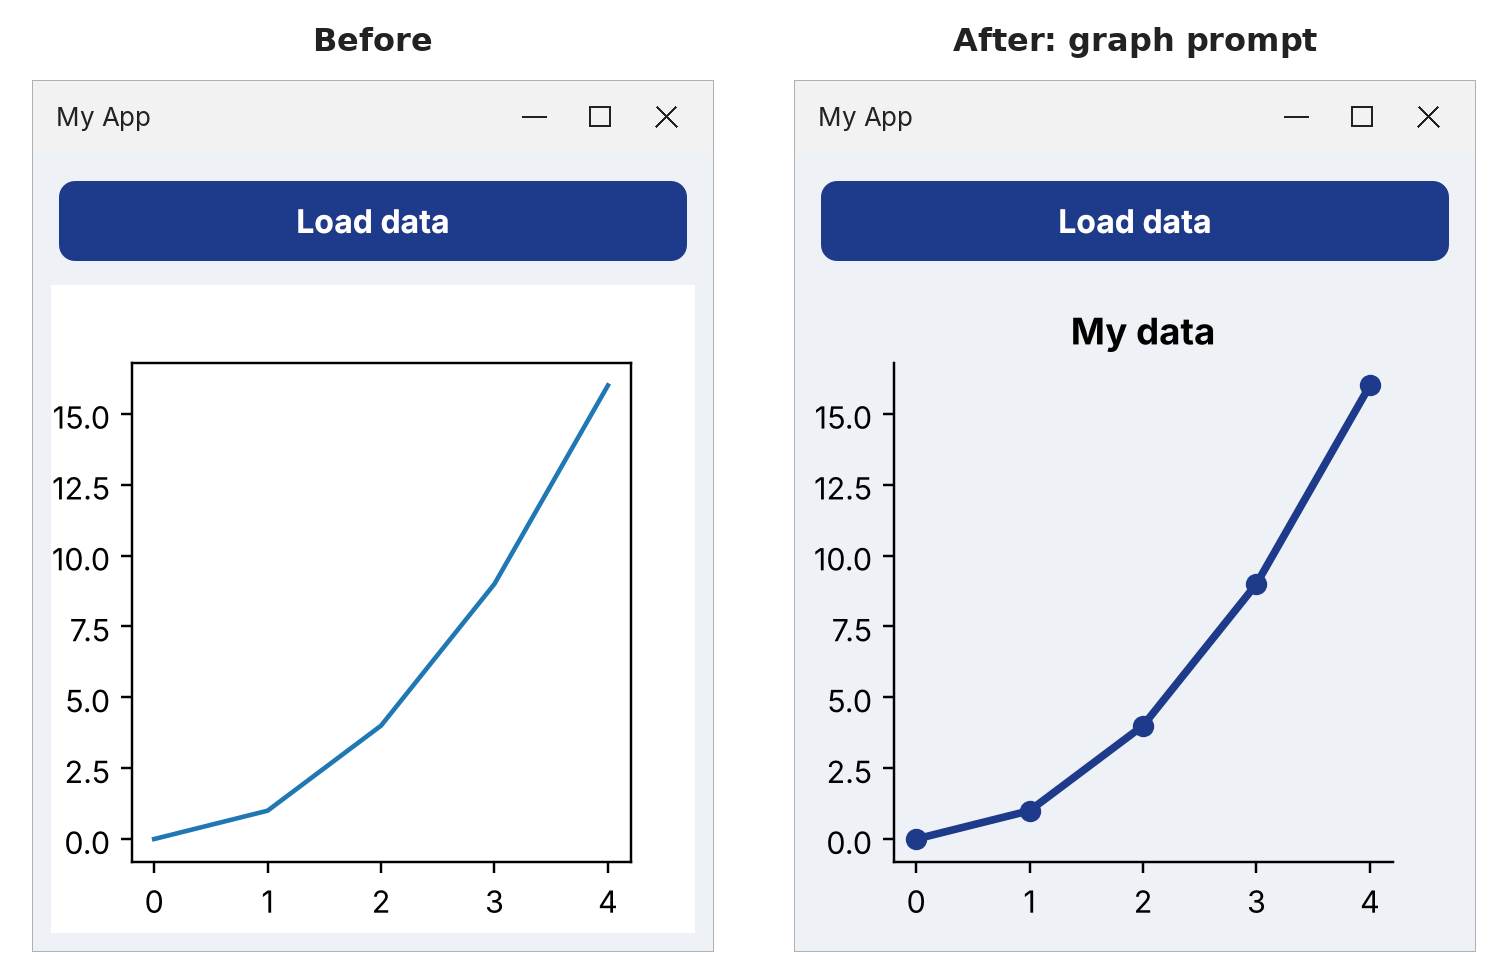
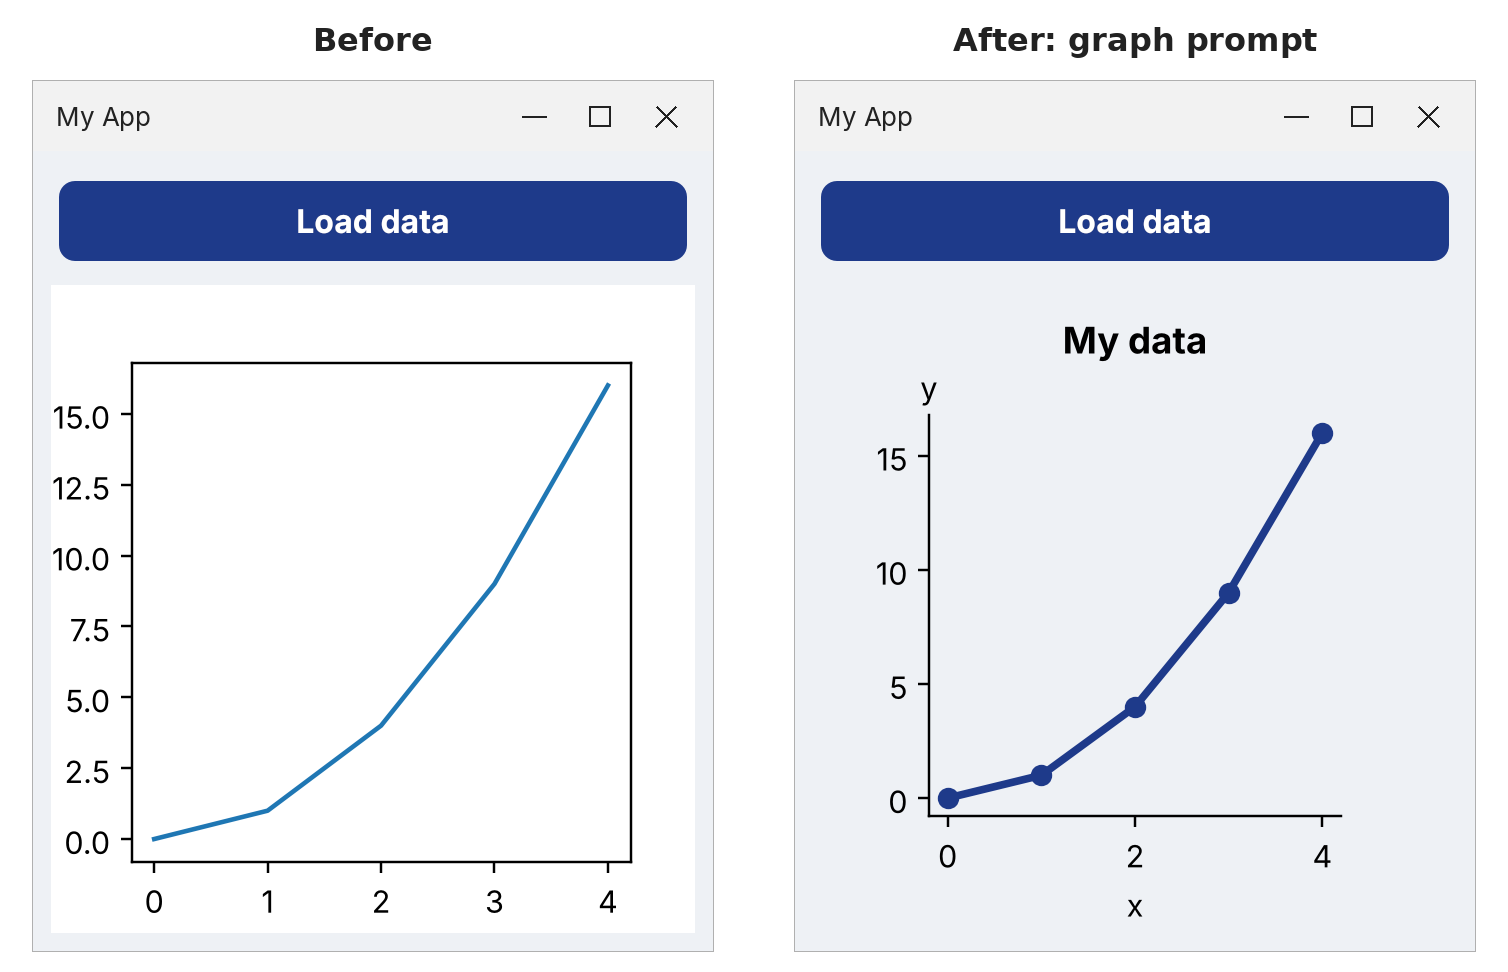
Starter GUI prompts: y title on top and centered graph; always-on zoom with Reset Zoom and Save Graph buttons
- Graph prompt asks for the y axis name at the top and a centered graph;
  new code and screenshot
- Zoom prompt: mouse-wheel zoom any time, Reset Zoom and Save Graph buttons
  under the graph, no matplotlib toolbar; new code and screenshot
- Hebrew page uses the English images; unused images removed

Claude-Session: https://claude.ai/code/session_01TSvAdkGXUG1LZxQcRJdy9t

diff --git a/content/he/topics/good_prompts.md b/content/he/topics/good_prompts.md
@@ -200,11 +200,11 @@ QPushButton:hover {
 
 קובץ ה-QSS מעצב את החלון, אבל לא את הגרף: את הגרף matplotlib מצייר בעצמו. לכן הגרף מקבל פרומפט משלו. כאן לא צריך את המילים הטכניות. תארו במילים פשוטות מה אתם רוצים לראות. למשל:
 
-> Make the graph in `draw_graph` look nicer. Remove the lines on the top and right sides of the graph, add a title and a name for each axis, make the line thicker and dark blue with a dot on every point, and make the background of the graph the same light gray as the window. Keep the grid off. Only change `draw_graph`.
+> Make the graph in `draw_graph` look nicer. Remove the lines on the top and right sides of the graph, add a title and a name for each axis, make the line thicker and dark blue with a dot on every point, and make the background of the graph the same light gray as the window. Keep the grid off. Put the name of the y axis at the top of the axis, written normally and not sideways, and keep the graph centered in its area. Only change `draw_graph`.
 
-(״תגרום לגרף ב-`draw_graph` להיראות יותר טוב. תוריד את הקווים בצד העליון והימני של הגרף, תוסיף כותרת ושם לכל ציר, תעשה את הקו עבה יותר וכחול כהה עם נקודה על כל נקודת נתונים, ותעשה את הרקע של הגרף באותו אפור בהיר כמו החלון. תשאיר את הרשת כבויה. תשנה רק את `draw_graph`.״)
+(״תגרום לגרף ב-`draw_graph` להיראות יותר טוב. תוריד את הקווים בצד העליון והימני של הגרף, תוסיף כותרת ושם לכל ציר, תעשה את הקו עבה יותר וכחול כהה עם נקודה על כל נקודת נתונים, ותעשה את הרקע של הגרף באותו אפור בהיר כמו החלון. תשאיר את הרשת כבויה. תשים את השם של ציר ה-y בראש הציר, כתוב רגיל ולא לרוחב, ותשאיר את הגרף במרכז השטח שלו. תשנה רק את `draw_graph`.״)
 
-![החלון המעוצב לפני פרומפט הגרף, ואחריו](content/images/prompt_graph_before_after_he.png)
+![החלון המעוצב לפני פרומפט הגרף, ואחריו](content/images/prompt_graph_before_after.png)
 
 ה-AI משנה רק את `draw_graph`:
 
@@ -215,12 +215,13 @@ def draw_graph(self):
     self.ax.set_facecolor("#eef1f5")
     self.ax.spines["top"].set_visible(False)
     self.ax.spines["right"].set_visible(False)
-    self.ax.set_axisbelow(True)
     self.ax.plot([0, 1, 2, 3, 4], [0, 1, 4, 9, 16],
                  color="#1e3a8a", linewidth=2.5, marker="o")
-    self.ax.set_title("My data", fontweight="bold")
+    self.ax.set_title("My data", fontweight="bold", pad=20)
     self.ax.set_xlabel("x")
-    self.ax.set_ylabel("y")
+    self.ax.set_ylabel("y", rotation=0, ha="center", va="bottom")
+    self.ax.yaxis.set_label_coords(0, 1.02)    # the y name sits at the top of the axis
+    self.figure.subplots_adjust(left=0.18, right=0.82, top=0.8, bottom=0.18)    # same space left and right
     self.canvas.draw()
 ```
 
@@ -230,45 +231,62 @@ def draw_graph(self):
 
 אזור הגרף עדיין לא נראה כל כך טוב, כי הגרף לא מנצל נכון את המקום שמסביבו. בנוסף, אנחנו רוצים להוסיף אפשרות לזום ולשמירת הגרף כתמונה. נכתוב לזה פרומפט המשך.
 
-> Make the graph occupy the entire width of the window but ensure that the y axis title is fully visible, and go up until it is almost at the "Load Data" button. Add an option for zooming and for saving the graph as an image, with only two buttons and place them so they line up with the main title, on the right side of the graph. Style it to match the rest of the app using `style.qss`. Don't change `draw_graph`.
+> Make the graph occupy the entire width of the window while keeping it centered, and go up until it is almost at the "Load Data" button. Let the user zoom in and out of the graph at any time with the mouse wheel, around the mouse position. Under the graph, add two buttons in a row: "Reset Zoom" named `reset_zoom_button`, connected to a method called `reset_zoom` that shows the whole graph again, and "Save Graph" named `save_graph_button`, connected to a method called `save_graph` that opens a save dialog and saves the graph as an image. Style them to match the rest of the app using `style.qss`.
 
-(״תגרום לגרף לתפוס את כל רוחב החלון, אבל תוודא שהשם של ציר ה-y נראה במלואו, ותעלה אותו עד שהוא כמעט מגיע לכפתור ״Load Data״. תוסיף אפשרות לזום ולשמירת הגרף כתמונה, עם שני כפתורים בלבד, ותמקם אותם כך שיהיו בשורה אחת עם הכותרת הראשית, בצד הימני של הגרף. תעצב אותם כך שיתאימו לשאר האפליקציה בעזרת `style.qss`. אל תשנה את `draw_graph`.״)
+(״תגרום לגרף לתפוס את כל רוחב החלון ועדיין להישאר במרכז, ותעלה אותו עד שהוא כמעט מגיע לכפתור ״Load Data״. תאפשר למשתמש לעשות זום פנימה והחוצה בכל רגע בעזרת גלגלת העכבר, סביב המקום של העכבר. מתחת לגרף, תוסיף שני כפתורים בשורה: ״Reset Zoom״ בשם `reset_zoom_button`, שמחובר למתודה בשם `reset_zoom` שמציגה שוב את כל הגרף, ו-״Save Graph״ בשם `save_graph_button`, שמחובר למתודה בשם `save_graph` שפותחת חלון שמירה ושומרת את הגרף כתמונה. תעצב אותם כך שיתאימו לשאר האפליקציה בעזרת `style.qss`.״)
 
-![האפליקציה לפני הפרומפט, ואחריו](content/images/prompt_toolbar_before_after_he.png)
+![האפליקציה לפני פרומפט הזום והשמירה, ואחריו](content/images/prompt_zoom_save_before_after.png)
 
-השינוי ב-Python קטן. מחלקה קטנה מעל `MainWindow` משאירה רק שניים מהכפתורים של סרגל הכלים (toolbar):
-
-```python
-from PySide6.QtCore import Qt
-from PySide6.QtWidgets import QGridLayout
-from matplotlib.backends.backend_qtagg import NavigationToolbar2QT
-
-
-class GraphToolbar(NavigationToolbar2QT):
-    # Keep only the Zoom and Save buttons of matplotlib's toolbar
-    toolitems = [t for t in NavigationToolbar2QT.toolitems if t[0] in ("Zoom", "Save")]
-```
-
-ובנוסף משתנות כמה שורות ב-`__init__`. הגרף מסדר את עצמו כך שימלא את השטח שלו, וסרגל הכלים יושב מעל הגרף, בפינה הימנית העליונה שלו:
+ב-`__init__`, ה-AI מחבר את גלגלת העכבר למתודה חדשה, ומוסיף את שני הכפתורים בשורה מתחת לגרף (הוא גם מוסיף את `QHBoxLayout` ל-imports):
 
 ```python
-        self.figure = Figure(layout="constrained")    # was: Figure()
+        self.canvas.mpl_connect("scroll_event", self.zoom_graph)
+
+        self.reset_zoom_button = QPushButton("Reset Zoom")
+        self.reset_zoom_button.clicked.connect(self.reset_zoom)
+        self.save_graph_button = QPushButton("Save Graph")
+        self.save_graph_button.clicked.connect(self.save_graph)
+        buttons = QHBoxLayout()
+        buttons.addWidget(self.reset_zoom_button)
+        buttons.addWidget(self.save_graph_button)
+        layout.addLayout(buttons)    # after layout.addWidget(self.canvas)
+        layout.setSpacing(0)         # less space between the widgets
 ```
+
+ב-`draw_graph`, השורה עם השוליים הקבועים מוחלפת בשלוש שורות שמרחיבות את הגרף כמה שאפשר, עם אותו מרווח משני הצדדים:
 
 ```python
-        self.toolbar = GraphToolbar(self.canvas, self, coordinates=False)
-        graph_area = QGridLayout()
-        graph_area.addWidget(self.canvas, 0, 0)
-        graph_area.addWidget(self.toolbar, 0, 0, Qt.AlignTop | Qt.AlignRight)
-        layout.addLayout(graph_area)    # was: layout.addWidget(self.canvas)
-        layout.setSpacing(0)            # less space between the button and the graph
+    self.figure.tight_layout()
+    left = self.ax.get_position().x0
+    self.figure.subplots_adjust(right=1 - left)    # the same space on the right as on the left
 ```
 
-`layout="constrained"` אומר ל-matplotlib להגדיל את הגרף כמה שאפשר, ועדיין להשאיר מקום לכותרת ולשמות הצירים. כשמכניסים את ה-canvas ואת סרגל הכלים לאותו תא ב-`QGridLayout`, אחד מהם יושב מעל השני.
+ועוד שלוש מתודות חדשות:
 
-מה עושים שני הכפתורים:
+```python
+    def zoom_graph(self, event):
+        if event.inaxes is None:    # the mouse is not over the graph
+            return
+        factor = 0.8 if event.button == "up" else 1.25
+        x_min, x_max = self.ax.get_xlim()
+        y_min, y_max = self.ax.get_ylim()
+        self.ax.set_xlim(event.xdata - (event.xdata - x_min) * factor,
+                         event.xdata + (x_max - event.xdata) * factor)
+        self.ax.set_ylim(event.ydata - (event.ydata - y_min) * factor,
+                         event.ydata + (y_max - event.ydata) * factor)
+        self.canvas.draw()
 
-- **Zoom** (זכוכית המגדלת): לוחצים עליו, ואז מסמנים מלבן על החלק של הגרף שרוצים לראות בגדול. גרירה עם הכפתור הימני של העכבר מקטינה. לחיצה נוספת על הכפתור מכבה את הזום.
-- **Save** (הדיסקט): שומר את הגרף כקובץ PNG, JPG, PDF או SVG.
+    def reset_zoom(self):
+        self.ax.autoscale()
+        self.canvas.draw()
 
-לסרגל הכלים של matplotlib יש עוד כפתורים: Home (חזרה לתצוגה המלאה), Back, Forward, Pan (הזזת הגרף) ועוד כמה הגדרות. רוצים גם אחד מהם? הוסיפו את השם שלו לרשימה ב-`GraphToolbar`, למשל `("Home", "Zoom", "Save")`. רוצים לשנות את המראה? שנו את הצבעים ב-`style.qss`, בדיוק כמו קודם.
+    def save_graph(self):
+        filename, _ = QFileDialog.getSaveFileName(self, "Save graph", "graph.png",
+                                                  "Images (*.png *.jpg *.pdf *.svg)")
+        if filename:
+            self.figure.savefig(filename)
+```
+
+קראו את `zoom_graph` בעיון, זה החלק היחיד שיש בו קצת מתמטיקה. גלגול למעלה מקטין את הטווח שרואים ל-80%, וגלגול למטה מגדיל אותו ב-25%. הנקודה שמתחת לעכבר נשארת במקום, כי הגבולות החדשים נמדדים ממנה. רוצים זום מהיר יותר? שנו את `0.8` ואת `1.25`.
+
+הכפתורים החדשים כבר נראים כמו ״Load data״, כי הכללים של `QPushButton` ב-`style.qss` חלים על כל כפתור. לא היה צריך לשנות שם כלום.

diff --git a/content/topics/good_prompts.md b/content/topics/good_prompts.md
@@ -179,7 +179,7 @@ Other things you can ask for: a dark theme, a specific font, an accent color for
 
 The QSS file styles the window, but not the graph: matplotlib draws the graph itself. So the graph gets a prompt of its own. Here you don't need the technical words. Describe what you want to see, in plain language. For example:
 
-> Make the graph in `draw_graph` look nicer. Remove the lines on the top and right sides of the graph, add a title and a name for each axis, make the line thicker and dark blue with a dot on every point, and make the background of the graph the same light gray as the window. Keep the grid off. Only change `draw_graph`.
+> Make the graph in `draw_graph` look nicer. Remove the lines on the top and right sides of the graph, add a title and a name for each axis, make the line thicker and dark blue with a dot on every point, and make the background of the graph the same light gray as the window. Keep the grid off. Put the name of the y axis at the top of the axis, written normally and not sideways, and keep the graph centered in its area. Only change `draw_graph`.
 
 ![The styled window before the graph prompt, and after it](content/images/prompt_graph_before_after.png)
 
@@ -192,12 +192,13 @@ def draw_graph(self):
     self.ax.set_facecolor("#eef1f5")
     self.ax.spines["top"].set_visible(False)
     self.ax.spines["right"].set_visible(False)
-    self.ax.set_axisbelow(True)
     self.ax.plot([0, 1, 2, 3, 4], [0, 1, 4, 9, 16],
                  color="#1e3a8a", linewidth=2.5, marker="o")
-    self.ax.set_title("My data", fontweight="bold")
+    self.ax.set_title("My data", fontweight="bold", pad=20)
     self.ax.set_xlabel("x")
-    self.ax.set_ylabel("y")
+    self.ax.set_ylabel("y", rotation=0, ha="center", va="bottom")
+    self.ax.yaxis.set_label_coords(0, 1.02)    # the y name sits at the top of the axis
+    self.figure.subplots_adjust(left=0.18, right=0.82, top=0.8, bottom=0.18)    # same space left and right
     self.canvas.draw()
 ```
 
@@ -207,43 +208,60 @@ Now read the code. Some things are very easy to do once you know how. You can no
 
 The graph area still doesn't look that good as it does not occupy the space around it properly. Also we want to add an option for zooming and saving the graph as an image. We'll write a follow-up prompt for that.
 
-> Make the graph occupy the entire width of the window but ensure that the y axis title is fully visible, and go up until it is almost at the "Load Data" button. Add an option for zooming and for saving the graph as an image, with only two buttons and place them so they line up with the main title, on the right side of the graph. Style it to match the rest of the app using `style.qss`. Don't change `draw_graph`.
+> Make the graph occupy the entire width of the window while keeping it centered, and go up until it is almost at the "Load Data" button. Let the user zoom in and out of the graph at any time with the mouse wheel, around the mouse position. Under the graph, add two buttons in a row: "Reset Zoom" named `reset_zoom_button`, connected to a method called `reset_zoom` that shows the whole graph again, and "Save Graph" named `save_graph_button`, connected to a method called `save_graph` that opens a save dialog and saves the graph as an image. Style them to match the rest of the app using `style.qss`.
 
-![The app before the toolbar prompt, and after it](content/images/prompt_toolbar_before_after.png)
+![The app before the zoom and save prompt, and after it](content/images/prompt_zoom_save_before_after.png)
 
-The Python change is small. A tiny class above `MainWindow` keeps only two of the toolbar's buttons:
-
-```python
-from PySide6.QtCore import Qt
-from PySide6.QtWidgets import QGridLayout
-from matplotlib.backends.backend_qtagg import NavigationToolbar2QT
-
-
-class GraphToolbar(NavigationToolbar2QT):
-    # Keep only the Zoom and Save buttons of matplotlib's toolbar
-    toolitems = [t for t in NavigationToolbar2QT.toolitems if t[0] in ("Zoom", "Save")]
-```
-
-And a few lines in `__init__` change. The figure now arranges itself to fill its area, and the toolbar sits on top of the graph, in its top right corner:
+In `__init__`, the AI connects the mouse wheel to a new method, and adds the two buttons in a row under the graph (it also adds `QHBoxLayout` to the imports):
 
 ```python
-        self.figure = Figure(layout="constrained")    # was: Figure()
+        self.canvas.mpl_connect("scroll_event", self.zoom_graph)
+
+        self.reset_zoom_button = QPushButton("Reset Zoom")
+        self.reset_zoom_button.clicked.connect(self.reset_zoom)
+        self.save_graph_button = QPushButton("Save Graph")
+        self.save_graph_button.clicked.connect(self.save_graph)
+        buttons = QHBoxLayout()
+        buttons.addWidget(self.reset_zoom_button)
+        buttons.addWidget(self.save_graph_button)
+        layout.addLayout(buttons)    # after layout.addWidget(self.canvas)
+        layout.setSpacing(0)         # less space between the widgets
 ```
+
+In `draw_graph`, the line with the fixed margins is replaced by three lines that make the graph as wide as it can be, with the same space on both sides:
 
 ```python
-        self.toolbar = GraphToolbar(self.canvas, self, coordinates=False)
-        graph_area = QGridLayout()
-        graph_area.addWidget(self.canvas, 0, 0)
-        graph_area.addWidget(self.toolbar, 0, 0, Qt.AlignTop | Qt.AlignRight)
-        layout.addLayout(graph_area)    # was: layout.addWidget(self.canvas)
-        layout.setSpacing(0)            # less space between the button and the graph
+    self.figure.tight_layout()
+    left = self.ax.get_position().x0
+    self.figure.subplots_adjust(right=1 - left)    # the same space on the right as on the left
 ```
 
-`layout="constrained"` tells matplotlib to make the graph as big as it can, while keeping room for the title and the axis names. Putting the canvas and the toolbar in the same cell of a `QGridLayout` places one on top of the other.
+And three new methods:
 
-What the two buttons do:
+```python
+    def zoom_graph(self, event):
+        if event.inaxes is None:    # the mouse is not over the graph
+            return
+        factor = 0.8 if event.button == "up" else 1.25
+        x_min, x_max = self.ax.get_xlim()
+        y_min, y_max = self.ax.get_ylim()
+        self.ax.set_xlim(event.xdata - (event.xdata - x_min) * factor,
+                         event.xdata + (x_max - event.xdata) * factor)
+        self.ax.set_ylim(event.ydata - (event.ydata - y_min) * factor,
+                         event.ydata + (y_max - event.ydata) * factor)
+        self.canvas.draw()
 
-- **Zoom** (the magnifying glass): click it, then drag a rectangle over the part of the graph you want to see bigger. Drag with the right mouse button to zoom out. Click the button again to turn zoom off.
-- **Save** (the disk): saves the graph as a PNG, JPG, PDF or SVG file.
+    def reset_zoom(self):
+        self.ax.autoscale()
+        self.canvas.draw()
 
-matplotlib's toolbar has more buttons: Home (back to the full view), Back, Forward, Pan (move the graph around) and a few settings. Want one of them too? Add its name to the list in `GraphToolbar`, for example `("Home", "Zoom", "Save")`. Want to change the look? Change the colors in `style.qss`, just as you did before.
+    def save_graph(self):
+        filename, _ = QFileDialog.getSaveFileName(self, "Save graph", "graph.png",
+                                                  "Images (*.png *.jpg *.pdf *.svg)")
+        if filename:
+            self.figure.savefig(filename)
+```
+
+Read `zoom_graph` carefully, it is the only part with some math. Rolling the wheel up shrinks the visible range to 80%, and rolling it down grows it by 25%. The point under the mouse stays in place, because the new limits are measured from it. Want a faster zoom? Change `0.8` and `1.25`.
+
+The new buttons already look like "Load data", because the `QPushButton` rules in `style.qss` apply to every button. Nothing needed to change there.
